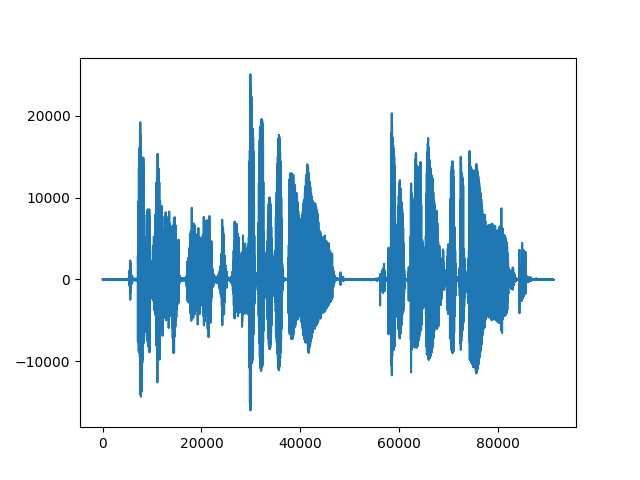
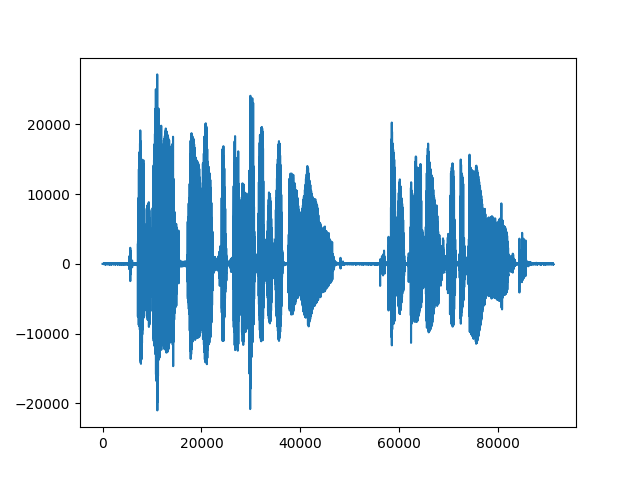
fix mixier program

diff --git a/dgt_exp1.py b/dgt_exp1.py
@@ -20,39 +20,27 @@ L1 = len(x1)
 L2 = len(x2)
 
 if L1 > L2:
-    a1 = a
-    b1 = b
-    N1 = N2 = int(L1 / a)
-    M1 = M2 = int(L1 / b)
-    a2 = int(a1 * L2 / L1)
-    b2 = int(b1 * L2 / L1)
+    x2 = np.append(x2, np.zeros(L1 - L2))
 else:
-    a2 = a
-    b2 = b
-    N1 = N2 = int(L2 / a)
-    M1 = M2 = int(L2 / b)
-    a1 = int(a2 * L1 / L2)
-    b1 = int(b2 * L1 / L2)
+    x1 = np.append(x1, np.zeros(L2 - L1))
+L = max(L1, L2)
+
+N = int(L / a)
+M = int(L / b)
 
 if fs1 != fs2:
     print("Error: fs1 != fs2")
     exit(1)
 
 # 各音声を順変換
-dgt1 = mydgt.DGT(len(w), a1, b1, L1)
+dgt1 = mydgt.DGT(len(w), a, b, L)
 X1 = dgt1.dgt(x1, w)
-dgt2 = mydgt.DGT(len(w), a2, b2, L2)
+dgt2 = mydgt.DGT(len(w), a, b, L)
 X2 = dgt2.dgt(x2, w)
 
 # 合成
-if L1 > L2:
-    X = X1.copy()
-    X[0:M2, 0:N2] += X2
-    L = L1
-else:
-    X = X2.copy()
-    X[0:M1, 0:N1] += X1
-    L = L2
+X = X2.copy()
+X[0:M, 0:N] += X1
 
 print(X)
 
@@ -63,5 +51,6 @@ cx = idgt.idgt(X, w)
 # 逆変換結果をwavファイルに出力
 wio.write("mixed_wave.wav", fs1, np.real(cx) * pow(10, -4))
 
-mydgt.plot(x1, X1, cx, w, a1, b1, N1, L1)
-mydgt.plot(x2, X2, cx, w, a2, b2, N2, L2)
+mydgt.plot(x1, X1, cx, w, a, b, N, L)
+mydgt.plot(x2, X2, cx, w, a, b, N, L)
+mydgt.plot(x2, X, cx, w, a, b, N, L)
